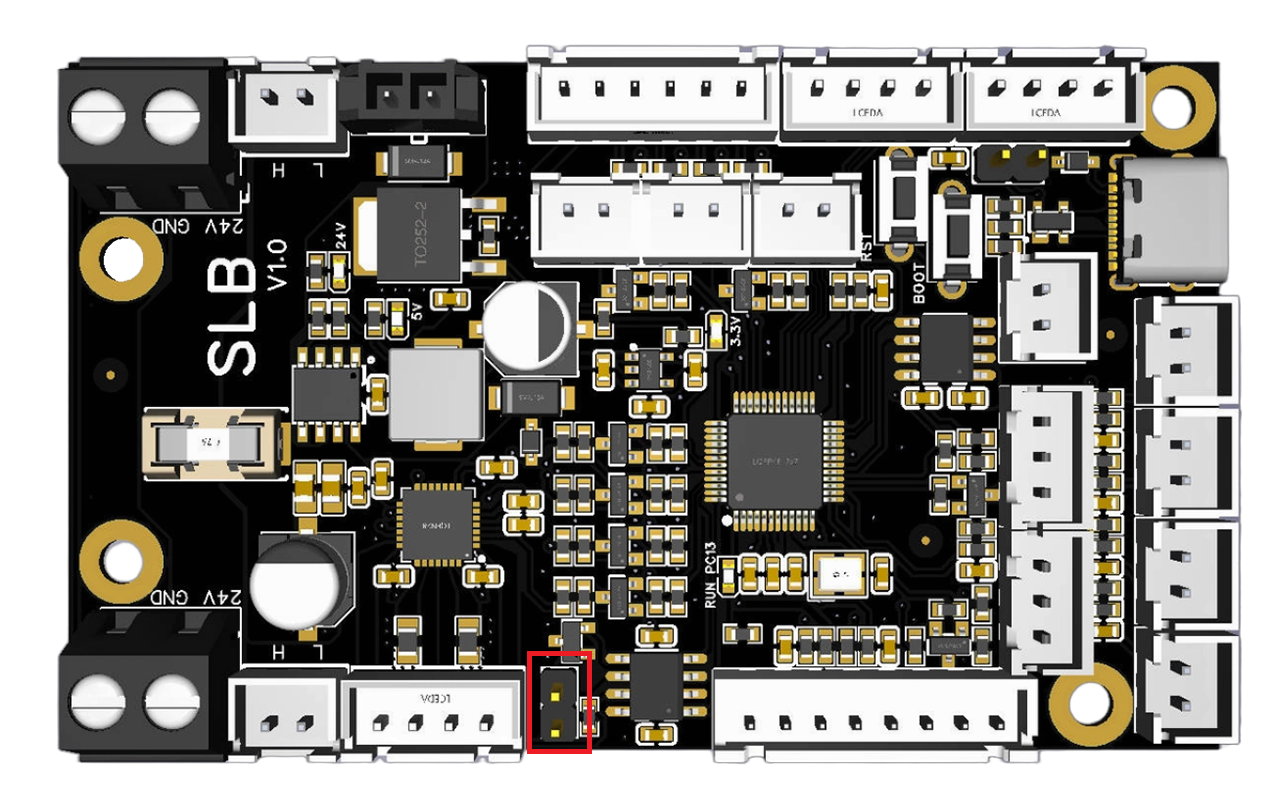
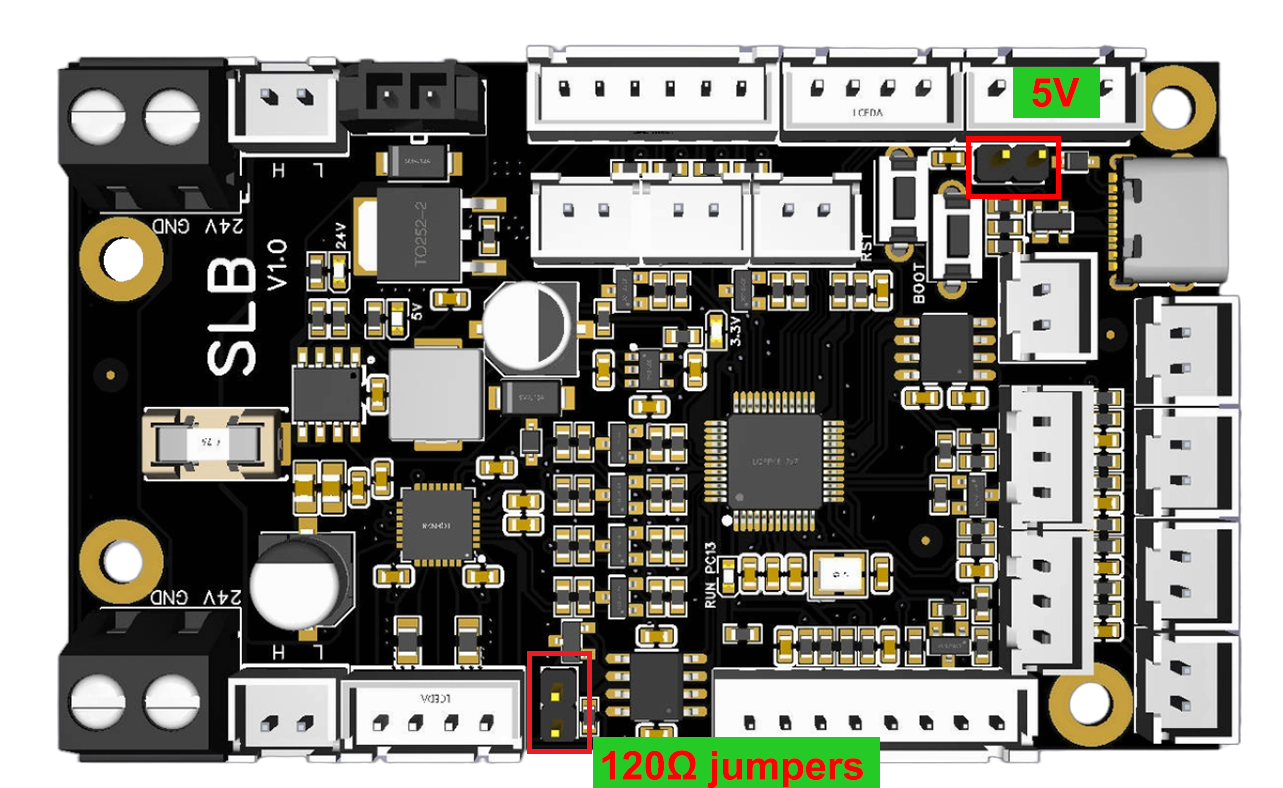
update

Changed region(s): [[0.4365, 0.9137, 0.6859, 1.0], [0.7482, 0.0609, 0.873, 0.2741]]

diff --git a/README.md b/README.md
@@ -8,6 +8,7 @@
 - [1. PIN Diagram](#1-pin-diagram)
 - [2. EMU Wiring Diagram](#2-emu-wiring-diagram)
 - [3. EMU Configuration](#3-emu-configuration)
+- [4. User Guide for EMU](#4-user-guide-for-emu)
 - [5. Flashing Guide (Optional)](#5-flashing-guide-optional)
   - [5.1. Flashing Katapult (Optional)](#51-flashing-katapult-optional)
   - [5.2. Compiling Klipper Firmware](#52-compiling-klipper-firmware)
@@ -81,6 +82,10 @@ This board is factory-produced using high-quality electronic components with SMT
 <img src="Assets/1-8.jpg" width="100%"/>
 
 <img src="Assets/1-6.png" width="50%"/>
+
+
+
+**Note:** The wiring harness is for demonstration purposes only. Standard ribbon cables are relatively stiff; you may use silicone ribbon cables or regular loose wires instead.
 
 
 
@@ -230,6 +235,38 @@ https://github.com/DW-Tas/EMU/blob/main/docs/software_setup/02-happy-hare-setup.
 
 
 
+
+
+## 4. User Guide for EMU
+
+🟦Has the firmware been flashed
+
+> The **Katapult + Klipper** firmware has already been flashed before shipping, and the CANBUS speed is 1,000,000. So in normal cases, there is no need to reflash.  
+
+
+
+🟦About How to use
+
+> You can mount it directly onto the EMU. Note that you may need to remove most of the `120Ω jumpers` on the SLB board (usually keeping only the last one). When the system is unpowered, make sure to use a multimeter to measure the resistance between CAN-H and CAN-L, which should be 60Ω.
+
+
+
+🟦How to find the UUID
+
+>Start from the first lane (lane0). Double-click the reset button, then use the command below to find all UUIDs. The UUID shown as “canboot” is the UUID of the current lane. Press the reset button once again; at this point, you will find that the UUID marked as “canboot” is no longer displayed. Then continue the same procedure for the next lane.
+
+``` 
+~/klippy-env/bin/python ~/klipper/scripts/canbus_query.py can0
+```
+
+![img](Assets/30.png)
+
+
+
+
+
+
+
 ## 5. Flashing Guide (Optional)
 
 > [!TIP]  
@@ -307,7 +344,7 @@ Use a jumper to short the 5V USB pins. After shorting, you can power the board v
 
 If you are using 24V to power the board, you do not need to short the jumper, but you can only use Method 2 below to enter DFU mode.
 
-<img src="Assets/7.png" width="100%"/>
+<img src="Assets/21.png" width="100%"/>
 
 - **Method 1 to enter DFU:** With the board completely powered off, press and hold the Boot button, connect the board to the host computer with a Type-C cable, then release the Boot button.
 
